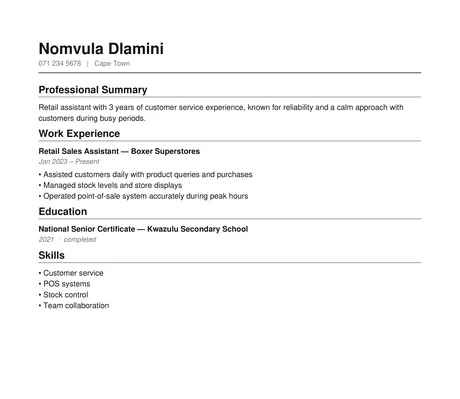
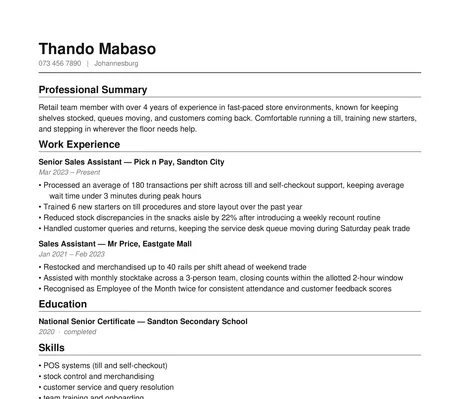
Gallery: full re-render with Thando Mabaso, add all 6 Advanced-only templates
Re-rendered all 15 non-held templates through the real renderCvPdf
pipeline with the exact Thando Mabaso content provided (retail sales
assistant, two roles, verbatim summary/bullets/education/skills), using
the templates exactly as they exist in Plasing-1 today. Photo Sidebar is
deliberately excluded and still shows the previous Nomvula Dlamini
render, held until its navy/burgundy sidebar redesign lands there.

Added the 4 non-photo and 2 photo-capable templates that exist in the
real product but were never on the site (Bordered, Contact Bar,
Centered, Aligned, Photo Header Band, Photo Compact) — all Advanced-only
per registry.ts. Gallery now shows the true full 16, reordered with
non-photo templates first and the photo group ending in Photo Sidebar.
Updated the Advanced filter label and templates-note to match: no more
"10 shown, 16 in the bot" hedge now that the gallery itself carries all
16, with an explicit note that Photo Sidebar alone still carries the old
placeholder pending its redesign.

The style-upgrade requests requiring real Plasing-1 template code
changes (solid sidebar fill, alternating band colours, tightened Compact
spacing, Photo Header Band's full band treatment, etc.) are being made
directly in Plasing-1 as real product changes, not simulated here — this
pass only re-renders through the templates as they exist today.

Changed region(s): [[0.0609, 0.2105, 0.913, 1.0], [0.0609, 0.0902, 0.3652, 0.1805]]

diff --git a/index.html b/index.html
@@ -266,7 +266,7 @@
         <button type="button" class="filter-btn" data-filter-tier="all" aria-pressed="true">All tiers</button>
         <button type="button" class="filter-btn" data-filter-tier="basic" aria-pressed="false">Basic <span aria-hidden="true">&middot;</span> 6</button>
         <button type="button" class="filter-btn" data-filter-tier="mid" aria-pressed="false">Mid <span aria-hidden="true">&middot;</span> 10</button>
-        <button type="button" class="filter-btn" data-filter-tier="advanced" aria-pressed="false">Advanced <span aria-hidden="true">&middot;</span> 10 shown, 16 in the bot</button>
+        <button type="button" class="filter-btn" data-filter-tier="advanced" aria-pressed="false">Advanced <span aria-hidden="true">&middot;</span> 16</button>
         <span class="filter-divider" aria-hidden="true"></span>
         <button type="button" class="filter-btn filter-btn-photo" data-filter-photo aria-pressed="false">Photo option only</button>
       </div>
@@ -441,6 +441,118 @@
             </div>
           </div>
         </div>
+        <div class="template-tile" data-tiers="advanced" data-photo="false">
+          <picture>
+
+            <source srcset="/assets/templates/tmpl-bordered.webp" type="image/webp">
+
+            <img src="/assets/templates/tmpl-bordered.png" alt="Bordered template: a thin rule frame around the page, rendered from the real one-page CV template with sample content." loading="lazy" width="460" height="399">
+
+          </picture>
+          <div class="template-tile-body">
+            <div class="template-tile-name">
+              <span class="tile-name-text">Bordered</span>
+              <span class="tile-accent-rule" aria-hidden="true"></span>
+            </div>
+            <p class="template-tile-desc">Thin rule frame around the page.</p>
+            <div class="color-picker" data-color-picker>
+              <span class="color-picker-label">Accent colour</span>
+              <div class="color-swatches" role="group" aria-label="Choose an accent colour for Bordered">
+                <button type="button" class="color-swatch color-swatch-gray" data-color="grayscale" aria-pressed="true" aria-label="Black and white, default"></button>
+                <button type="button" class="color-swatch" data-color="deep-navy" data-hex="#1B2A4C" aria-pressed="false" aria-label="Deep Navy"></button>
+                <button type="button" class="color-swatch" data-color="burgundy" data-hex="#7A2333" aria-pressed="false" aria-label="Burgundy"></button>
+                <button type="button" class="color-swatch" data-color="forest-green" data-hex="#1F4D3A" aria-pressed="false" aria-label="Forest Green"></button>
+                <button type="button" class="color-swatch" data-color="charcoal" data-hex="#33363D" aria-pressed="false" aria-label="Charcoal"></button>
+                <button type="button" class="color-swatch" data-color="teal" data-hex="#1F5C5C" aria-pressed="false" aria-label="Teal"></button>
+                <button type="button" class="color-swatch" data-color="bronze" data-hex="#8C5A2B" aria-pressed="false" aria-label="Bronze"></button>
+              </div>
+            </div>
+          </div>
+        </div>
+        <div class="template-tile" data-tiers="advanced" data-photo="false">
+          <picture>
+
+            <source srcset="/assets/templates/tmpl-contact-bar.webp" type="image/webp">
+
+            <img src="/assets/templates/tmpl-contact-bar.png" alt="Contact Bar template: a light strip holds your contact details beneath your name, rendered from the real one-page CV template with sample content." loading="lazy" width="460" height="399">
+
+          </picture>
+          <div class="template-tile-body">
+            <div class="template-tile-name">
+              <span class="tile-name-text">Contact Bar</span>
+              <span class="tile-accent-rule" aria-hidden="true"></span>
+            </div>
+            <p class="template-tile-desc">Contact details sit in a light strip beneath your name.</p>
+            <div class="color-picker" data-color-picker>
+              <span class="color-picker-label">Accent colour</span>
+              <div class="color-swatches" role="group" aria-label="Choose an accent colour for Contact Bar">
+                <button type="button" class="color-swatch color-swatch-gray" data-color="grayscale" aria-pressed="true" aria-label="Black and white, default"></button>
+                <button type="button" class="color-swatch" data-color="deep-navy" data-hex="#1B2A4C" aria-pressed="false" aria-label="Deep Navy"></button>
+                <button type="button" class="color-swatch" data-color="burgundy" data-hex="#7A2333" aria-pressed="false" aria-label="Burgundy"></button>
+                <button type="button" class="color-swatch" data-color="forest-green" data-hex="#1F4D3A" aria-pressed="false" aria-label="Forest Green"></button>
+                <button type="button" class="color-swatch" data-color="charcoal" data-hex="#33363D" aria-pressed="false" aria-label="Charcoal"></button>
+                <button type="button" class="color-swatch" data-color="teal" data-hex="#1F5C5C" aria-pressed="false" aria-label="Teal"></button>
+                <button type="button" class="color-swatch" data-color="bronze" data-hex="#8C5A2B" aria-pressed="false" aria-label="Bronze"></button>
+              </div>
+            </div>
+          </div>
+        </div>
+        <div class="template-tile" data-tiers="advanced" data-photo="false">
+          <picture>
+
+            <source srcset="/assets/templates/tmpl-centered.webp" type="image/webp">
+
+            <img src="/assets/templates/tmpl-centered.png" alt="Centered template: name and contact line centred at the top, rendered from the real one-page CV template with sample content." loading="lazy" width="460" height="399">
+
+          </picture>
+          <div class="template-tile-body">
+            <div class="template-tile-name">
+              <span class="tile-name-text">Centered</span>
+              <span class="tile-accent-rule" aria-hidden="true"></span>
+            </div>
+            <p class="template-tile-desc">Name and contact line centred at the top.</p>
+            <div class="color-picker" data-color-picker>
+              <span class="color-picker-label">Accent colour</span>
+              <div class="color-swatches" role="group" aria-label="Choose an accent colour for Centered">
+                <button type="button" class="color-swatch color-swatch-gray" data-color="grayscale" aria-pressed="true" aria-label="Black and white, default"></button>
+                <button type="button" class="color-swatch" data-color="deep-navy" data-hex="#1B2A4C" aria-pressed="false" aria-label="Deep Navy"></button>
+                <button type="button" class="color-swatch" data-color="burgundy" data-hex="#7A2333" aria-pressed="false" aria-label="Burgundy"></button>
+                <button type="button" class="color-swatch" data-color="forest-green" data-hex="#1F4D3A" aria-pressed="false" aria-label="Forest Green"></button>
+                <button type="button" class="color-swatch" data-color="charcoal" data-hex="#33363D" aria-pressed="false" aria-label="Charcoal"></button>
+                <button type="button" class="color-swatch" data-color="teal" data-hex="#1F5C5C" aria-pressed="false" aria-label="Teal"></button>
+                <button type="button" class="color-swatch" data-color="bronze" data-hex="#8C5A2B" aria-pressed="false" aria-label="Bronze"></button>
+              </div>
+            </div>
+          </div>
+        </div>
+        <div class="template-tile" data-tiers="advanced" data-photo="false">
+          <picture>
+
+            <source srcset="/assets/templates/tmpl-aligned.webp" type="image/webp">
+
+            <img src="/assets/templates/tmpl-aligned.png" alt="Aligned template: dates sit flush-right against left-aligned job titles, rendered from the real one-page CV template with sample content." loading="lazy" width="460" height="399">
+
+          </picture>
+          <div class="template-tile-body">
+            <div class="template-tile-name">
+              <span class="tile-name-text">Aligned</span>
+              <span class="tile-accent-rule" aria-hidden="true"></span>
+            </div>
+            <p class="template-tile-desc">Dates align flush-right against left-aligned titles.</p>
+            <div class="color-picker" data-color-picker>
+              <span class="color-picker-label">Accent colour</span>
+              <div class="color-swatches" role="group" aria-label="Choose an accent colour for Aligned">
+                <button type="button" class="color-swatch color-swatch-gray" data-color="grayscale" aria-pressed="true" aria-label="Black and white, default"></button>
+                <button type="button" class="color-swatch" data-color="deep-navy" data-hex="#1B2A4C" aria-pressed="false" aria-label="Deep Navy"></button>
+                <button type="button" class="color-swatch" data-color="burgundy" data-hex="#7A2333" aria-pressed="false" aria-label="Burgundy"></button>
+                <button type="button" class="color-swatch" data-color="forest-green" data-hex="#1F4D3A" aria-pressed="false" aria-label="Forest Green"></button>
+                <button type="button" class="color-swatch" data-color="charcoal" data-hex="#33363D" aria-pressed="false" aria-label="Charcoal"></button>
+                <button type="button" class="color-swatch" data-color="teal" data-hex="#1F5C5C" aria-pressed="false" aria-label="Teal"></button>
+                <button type="button" class="color-swatch" data-color="bronze" data-hex="#8C5A2B" aria-pressed="false" aria-label="Bronze"></button>
+              </div>
+            </div>
+          </div>
+        </div>
         <div class="template-tile" data-tiers="basic mid advanced" data-photo="true">
           <picture>
 
@@ -528,6 +640,64 @@
             </div>
           </div>
         </div>
+        <div class="template-tile" data-tiers="advanced" data-photo="true">
+          <picture>
+
+            <source srcset="/assets/templates/tmpl-photo-header-band.webp" type="image/webp">
+
+            <img src="/assets/templates/tmpl-photo-header-band.png" alt="Photo Header Band template: a light band holds your photo and contact details beneath your name, rendered from the real one-page CV template with sample content." loading="lazy" width="460" height="399">
+
+          </picture>
+          <div class="template-tile-body">
+            <div class="template-tile-name">
+              <span class="photo-dot" aria-hidden="true"></span>
+              <span class="tile-name-text">Photo Header Band</span>
+              <span class="tile-accent-rule" aria-hidden="true"></span>
+            </div>
+            <p class="template-tile-desc">Photo and contact details in a band beneath your name.</p>
+            <div class="color-picker" data-color-picker>
+              <span class="color-picker-label">Accent colour</span>
+              <div class="color-swatches" role="group" aria-label="Choose an accent colour for Photo Header Band">
+                <button type="button" class="color-swatch color-swatch-gray" data-color="grayscale" aria-pressed="true" aria-label="Black and white, default"></button>
+                <button type="button" class="color-swatch" data-color="deep-navy" data-hex="#1B2A4C" aria-pressed="false" aria-label="Deep Navy"></button>
+                <button type="button" class="color-swatch" data-color="burgundy" data-hex="#7A2333" aria-pressed="false" aria-label="Burgundy"></button>
+                <button type="button" class="color-swatch" data-color="forest-green" data-hex="#1F4D3A" aria-pressed="false" aria-label="Forest Green"></button>
+                <button type="button" class="color-swatch" data-color="charcoal" data-hex="#33363D" aria-pressed="false" aria-label="Charcoal"></button>
+                <button type="button" class="color-swatch" data-color="teal" data-hex="#1F5C5C" aria-pressed="false" aria-label="Teal"></button>
+                <button type="button" class="color-swatch" data-color="bronze" data-hex="#8C5A2B" aria-pressed="false" aria-label="Bronze"></button>
+              </div>
+            </div>
+          </div>
+        </div>
+        <div class="template-tile" data-tiers="advanced" data-photo="true">
+          <picture>
+
+            <source srcset="/assets/templates/tmpl-photo-compact.webp" type="image/webp">
+
+            <img src="/assets/templates/tmpl-photo-compact.png" alt="Photo Compact template: a small photo in the corner with tightened spacing to fit more onto one page, rendered from the real one-page CV template with sample content." loading="lazy" width="460" height="399">
+
+          </picture>
+          <div class="template-tile-body">
+            <div class="template-tile-name">
+              <span class="photo-dot" aria-hidden="true"></span>
+              <span class="tile-name-text">Photo Compact</span>
+              <span class="tile-accent-rule" aria-hidden="true"></span>
+            </div>
+            <p class="template-tile-desc">Small corner photo, tightened spacing to fit more.</p>
+            <div class="color-picker" data-color-picker>
+              <span class="color-picker-label">Accent colour</span>
+              <div class="color-swatches" role="group" aria-label="Choose an accent colour for Photo Compact">
+                <button type="button" class="color-swatch color-swatch-gray" data-color="grayscale" aria-pressed="true" aria-label="Black and white, default"></button>
+                <button type="button" class="color-swatch" data-color="deep-navy" data-hex="#1B2A4C" aria-pressed="false" aria-label="Deep Navy"></button>
+                <button type="button" class="color-swatch" data-color="burgundy" data-hex="#7A2333" aria-pressed="false" aria-label="Burgundy"></button>
+                <button type="button" class="color-swatch" data-color="forest-green" data-hex="#1F4D3A" aria-pressed="false" aria-label="Forest Green"></button>
+                <button type="button" class="color-swatch" data-color="charcoal" data-hex="#33363D" aria-pressed="false" aria-label="Charcoal"></button>
+                <button type="button" class="color-swatch" data-color="teal" data-hex="#1F5C5C" aria-pressed="false" aria-label="Teal"></button>
+                <button type="button" class="color-swatch" data-color="bronze" data-hex="#8C5A2B" aria-pressed="false" aria-label="Bronze"></button>
+              </div>
+            </div>
+          </div>
+        </div>
         <div class="template-tile" data-tiers="mid advanced" data-photo="true">
           <picture>
 
@@ -561,7 +731,7 @@
 
       <p class="template-empty" id="template-empty" hidden>No templates match that filter combination.</p>
 
-      <p class="templates-note">Advanced: the bot now offers all 16 templates. WhatsApp's list-message limit only caps how many fit in one menu, so it's handled with a "Show more" second menu, not a hard cutoff. This gallery still shows the same 10 tiles as Mid; the remaining 6 are being added to the website next. Every tile above is a real PDF rendered by CareerSignal's own template code, using one consistent placeholder profile ("Nomvula Dlamini") so the designs are genuinely comparable, not a real customer's CV. Every template is black-and-white by default for reliable ATS parsing. The accent-colour swatches below each tile are real: pick one to preview where the colour lands on your name and section dividers, exactly as it would in the actual document, never behind body text. Colour is only offered from Mid tier up, so it's hidden while the Basic filter is active.</p>
+      <p class="templates-note">Advanced: the bot offers all 16 templates, WhatsApp's list-message limit is handled with a "Show more" second menu, not a hard cutoff, and this gallery now shows all 16 too. Every tile above is a real PDF rendered by CareerSignal's own template code, using one consistent placeholder profile ("Thando Mabaso") so the designs are genuinely comparable, not a real customer's CV, with one exception: Photo Sidebar still shows an earlier placeholder profile while its own redesign is finished, and will be refreshed to match once that lands. Every template is black-and-white by default for reliable ATS parsing. The accent-colour swatches below each tile are real: pick one to preview where the colour lands on your name and section dividers, exactly as it would in the actual document, never behind body text. Colour is only offered from Mid tier up, so it's hidden while the Basic filter is active.</p>
     </div>
   </section>
 
@@ -696,7 +866,7 @@
             <p class="price-desc">Everything CareerSignal offers, tailored to the job.</p>
             <ul class="price-features">
               <li>Up to three-page CV</li>
-              <li><a href="#templates" class="tier-jump-link" data-jump-tier="advanced">Choice of all 16 templates (10 shown in the gallery so far)</a></li>
+              <li><a href="#templates" class="tier-jump-link" data-jump-tier="advanced">Choice of all 16 templates</a></li>
               <li>Job-tailored keyword pass</li>
               <li>Cover letter included, automatically</li>
               <li>
